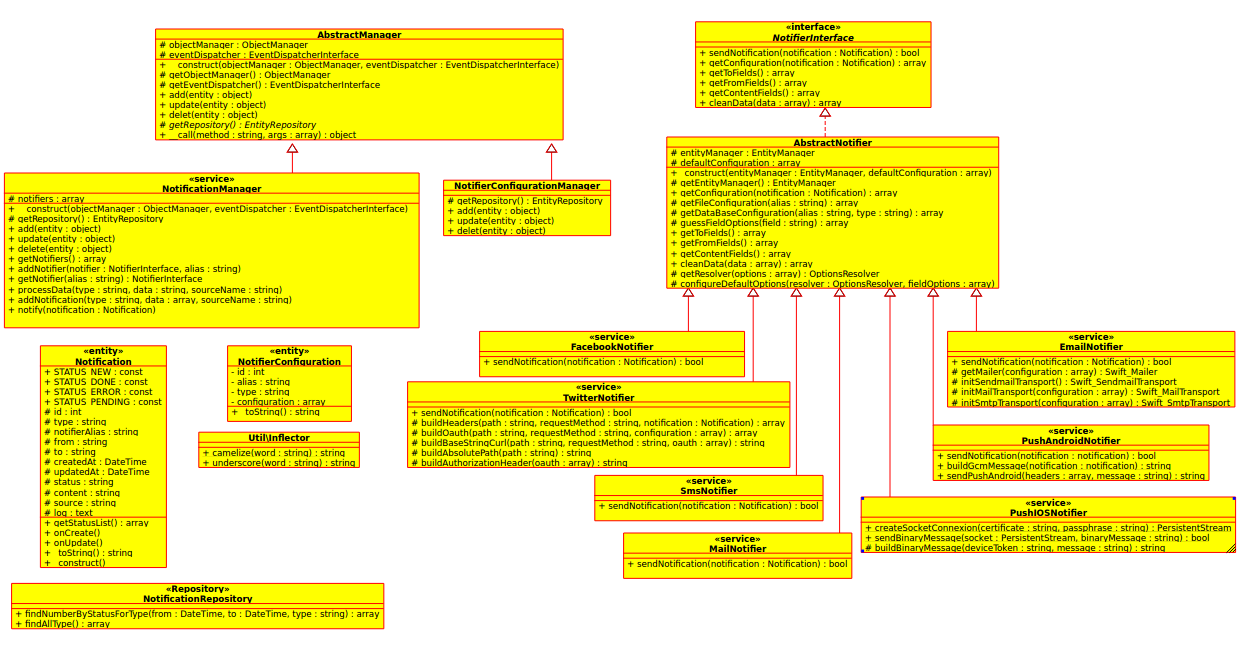
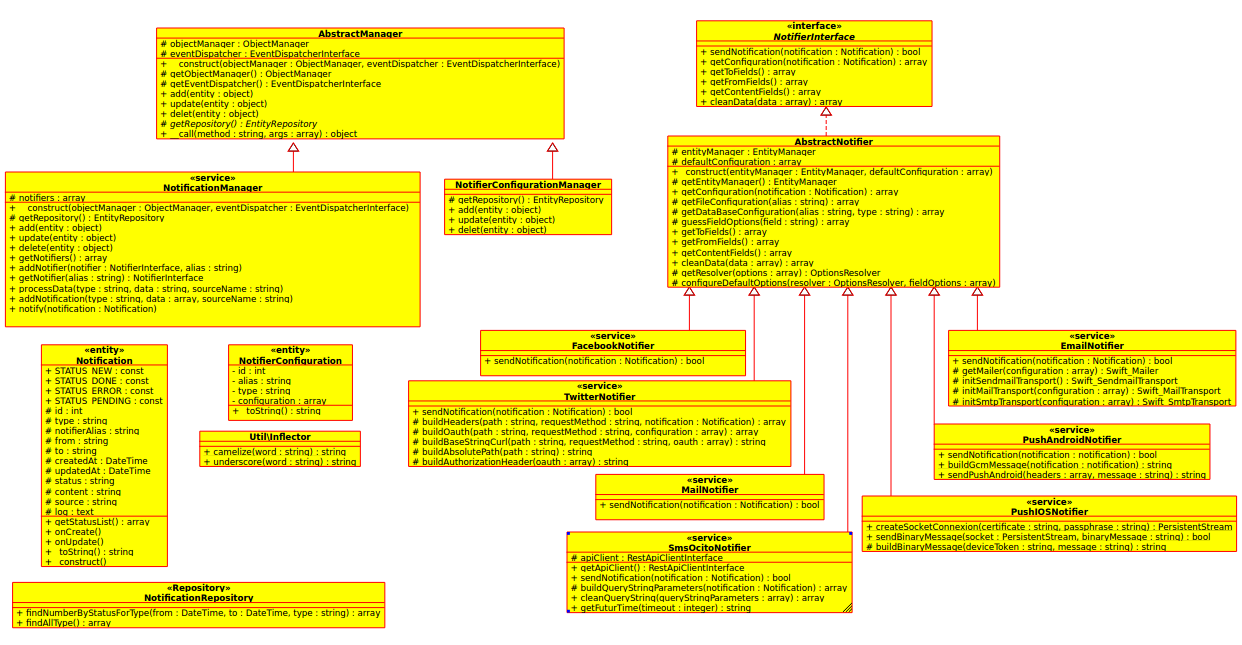
Add SmsOcito documentation

Changed region(s): [[0.0, 0.031, 1.0, 0.9922], [0.5205, 0.031, 0.8268, 0.4651]]

diff --git a/Resources/doc/configuration_reference.md b/Resources/doc/configuration_reference.md
@@ -54,6 +54,40 @@ idci_notification:
                     phoneNumber: 0635214255
 ```
 
+SMS Ocito
+---
+
+### Parameters :
+| Parameter         | Type    | Required | Valide values
+|-------------------|---------|----------|--------------
+| userName          | string  | yes      | string value
+| password          | string  | yes      | string value
+| senderAppId       | string  | yes      | string value
+| senderId          | string  | no       | string value
+| flag              | integer | yes      | integer value
+| priority          | string  | no       | string value
+| timeToLiveTimeout | integer | no       | integer value in seconde
+| timeToSendTimeout | integer | no       | integer value in seconde
+
+### Configuration
+Add an sms notifier configuration in `app/config/config.yml` :
+```yml
+idci_notification:
+    notifiers:
+        sms_ocito:
+            default_configuration: default
+            configurations:
+                default:
+                    userName:          username_ocito
+                    password:          password_ocito
+                    senderAppId:       1234
+                    senderId:          SenderValue
+                    flag:              3
+                    priority:          L
+                    timeToLiveTimeout: 123
+                    timeToSendTimeout: 456
+```
+
 Mail
 ----
 
@@ -241,6 +275,18 @@ idci_notification:
             configurations:
                 default:
                     phone_number: 0635214255
+        sms_ocito:
+            default_configuration: default
+            configurations:
+                default:
+                    userName:          username_ocito
+                    password:          password_ocito
+                    senderAppId:       1234
+                    senderId:          SenderValue
+                    flag:              3
+                    priority:          L
+                    timeToLiveTimeout: 123
+                    timeToSendTimeout: 456
         mail:
             default_configuration: default
             configurations:

diff --git a/Resources/doc/notification_service.md b/Resources/doc/notification_service.md
@@ -66,6 +66,7 @@ There are five notifier types.
 |--------------|---------------------|-------------------
 | email        | EmailNotifier       | 100%
 | sms          | SmsNotifier         | 10%
+| sms_ocito    | SmsOcitoNotifier    | 100%
 | mail         | MailNotifier        | 10%
 | facebook     | FacebookNotifier    | 10%
 | twitter      | TwitterNotifier     | 100%
